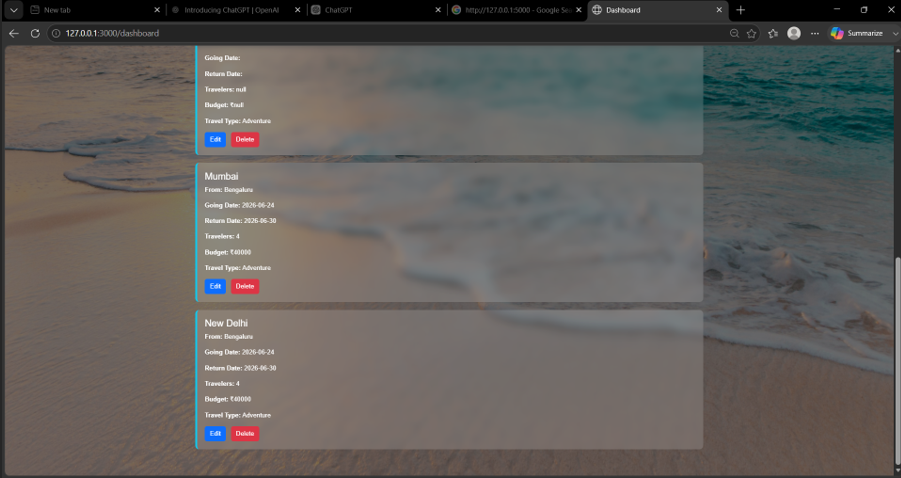
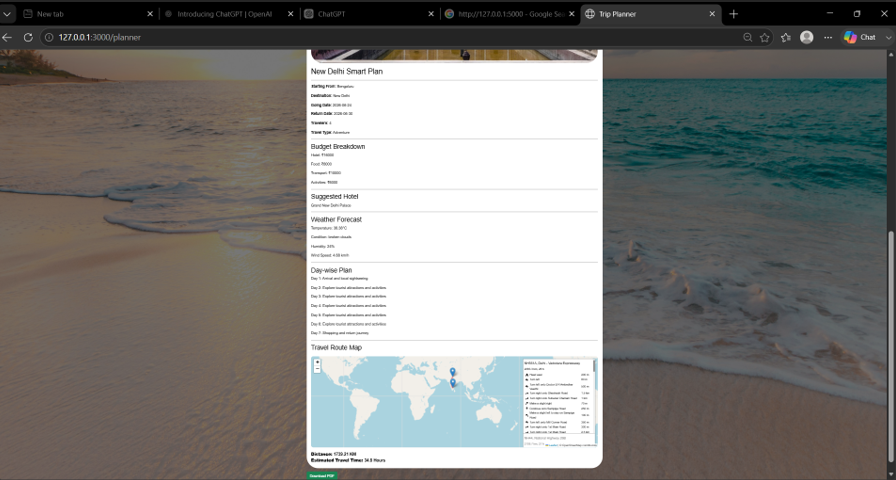
Add README

diff --git a/README.md b/README.md
@@ -1,1 +1,214 @@
-# Smart Travel Itinerary Generator
+# 🌍 Smart Travel Itinerary Generator
+
+### A Full-Stack Web Application for Personalized Travel Planning
+![Node.js](https://img.shields.io/badge/Node.js-18+-green?logo=node.js)
+![Express.js](https://img.shields.io/badge/Express.js-Backend-black?logo=express)
+![MongoDB](https://img.shields.io/badge/MongoDB-Database-green?logo=mongodb)
+![Socket.IO](https://img.shields.io/badge/Socket.IO-Real--Time-black?logo=socketdotio)
+![HTML5](https://img.shields.io/badge/HTML5-Frontend-orange?logo=html5)
+![CSS3](https://img.shields.io/badge/CSS3-Styling-blue?logo=css3)
+![JavaScript](https://img.shields.io/badge/JavaScript-ES6-yellow?logo=javascript)
+
+## 📖 About the Project
+
+Smart Travel Itinerary Generator is a full-stack travel planning web application that helps users create personalized travel itineraries based on their destination and travel preferences.
+
+The application provides an interactive platform where users can register, log in securely, generate customized travel plans, explore destinations using integrated maps, view weather information, save their trips, and export itineraries as PDF documents.
+
+The project combines modern web technologies with real-time communication using Socket.IO to deliver a smooth and responsive user experience. All user information and trip data are securely stored in MongoDB, allowing users to access and manage their travel plans anytime.
+## 🎯 Problem Statement
+
+Planning a trip often requires using multiple websites for weather updates, destination information, maps, and itinerary organization. Managing these resources separately makes travel planning time-consuming and inconvenient.
+
+This project addresses these challenges by providing a single platform where users can plan trips, manage itineraries, access travel information, and save their travel plans efficiently.
+## ✨ Features
+
+- 🔐 User Registration and Login
+- 🌍 Personalized Trip Planning
+- 📍 Source and Destination Selection
+- 📅 Travel Date Scheduling
+- 👥 Multi-Traveler Planning
+- 💰 Budget-Based Trip Planning
+- 🎯 Travel Category Selection (Adventure, Family, etc.)
+- 🖼 Destination Images
+- 🏨 Hotel Recommendation
+- 🌦 Weather Forecast Integration
+- 🗺 Interactive Route Map
+- 📅 Day-wise Itinerary Generation
+- 💾 Save Trips to Database
+- 📄 Export Itinerary as PDF
+- ⚡ Real-Time Dashboard Updates using Socket.IO
+## 🚀 How It Works
+
+1. The user logs into the application.
+2. The user enters:
+   - Current Location
+   - Destination
+   - Travel Category
+   - Travel Dates
+   - Number of Travelers
+   - Budget
+3. The application processes the provided information.
+4. A personalized itinerary is generated.
+5. Weather information and destination images are displayed.
+6. A travel route map is generated.
+7. Users can save the trip to MongoDB.
+8. The itinerary can be exported as a PDF document.
+## 📂 Project Modules
+
+### Authentication
+- User Registration
+- User Login
+- Session Management
+
+### Trip Planner
+- Travel Form
+- Personalized Itinerary
+- Budget Planning
+- Travel Category Selection
+
+### Dashboard
+- Saved Trips
+- Trip Management
+
+### Weather Module
+- Current Weather Forecast
+
+### Maps Module
+- Route Visualization
+
+### PDF Module
+- Download Itinerary as PDF
+
+### Database
+- MongoDB for User and Trip Storage
+## 🛠 Technology Stack
+
+### Frontend
+
+- HTML5
+- CSS3
+- JavaScript
+- Bootstrap
+
+### Backend
+
+- Node.js
+- Express.js
+
+### Database
+
+- MongoDB
+- Mongoose
+
+### Real-Time Communication
+
+- Socket.IO
+
+### APIs
+
+- Weather API
+- Map Integration
+## 🌐 API Integration
+
+The application integrates multiple external services to enhance the travel planning experience.
+
+| API | Purpose |
+|------|---------|
+| Weather API | Retrieves weather information for the selected destination |
+| Map API | Displays travel routes and destination locations |
+| Destination Images | Displays images of tourist destinations |
+
+## ⚙️ Installation
+
+### Clone the Repository
+
+```bash
+git clone https://github.com/Ananya27290/smart-travel-itinerary-generator.git
+```
+
+### Navigate to the Project Folder
+
+```bash
+cd smart-travel-itinerary-generator
+```
+
+### Install Dependencies
+
+```bash
+npm install
+```
+
+### Start MongoDB
+
+Make sure MongoDB is running locally.
+
+### Start the Application
+
+```bash
+npm start
+```
+
+or
+
+```bash
+node server.js
+```
+
+### Open in Browser
+
+```
+http://localhost:3000
+```
+## ⚙️ Installation
+
+### Clone the Repository
+
+```bash
+git clone https://github.com/Ananya27290/smart-travel-itinerary-generator.git
+```
+
+### Navigate to the Project Folder
+
+```bash
+cd smart-travel-itinerary-generator
+```
+
+### Install Dependencies
+
+```bash
+npm install
+```
+
+### Start MongoDB
+
+Make sure MongoDB is running locally.
+
+### Start the Application
+
+```bash
+npm start
+```
+
+or
+
+```bash
+node server.js
+```
+
+### Open in Browser
+
+```
+http://localhost:3000
+```
+## 💡 Future Enhancements
+
+- 🤖 AI-based travel recommendations
+- 💳 Online hotel and flight booking integration
+- 📍 Live GPS navigation
+- 💬 Chatbot for travel assistance
+- 🌐 Multi-language support
+- 📱 Mobile application
+- ⭐ User ratings and reviews
+- 💸 Expense tracking during trips
+- 🎯 Smart destination recommendations based on user preferences